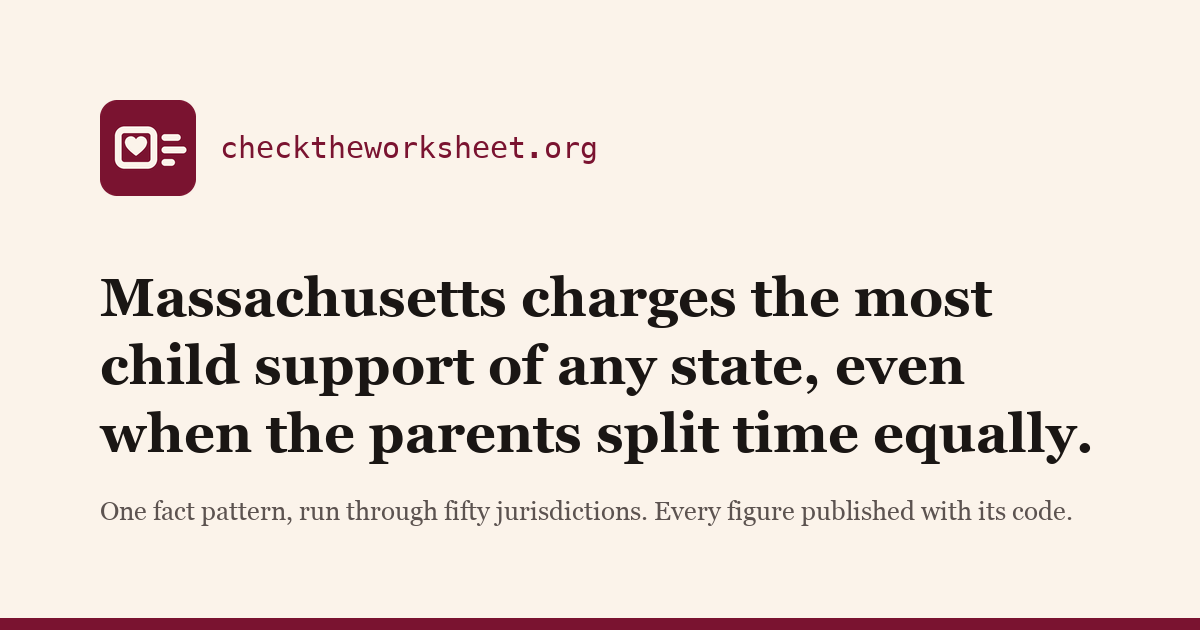
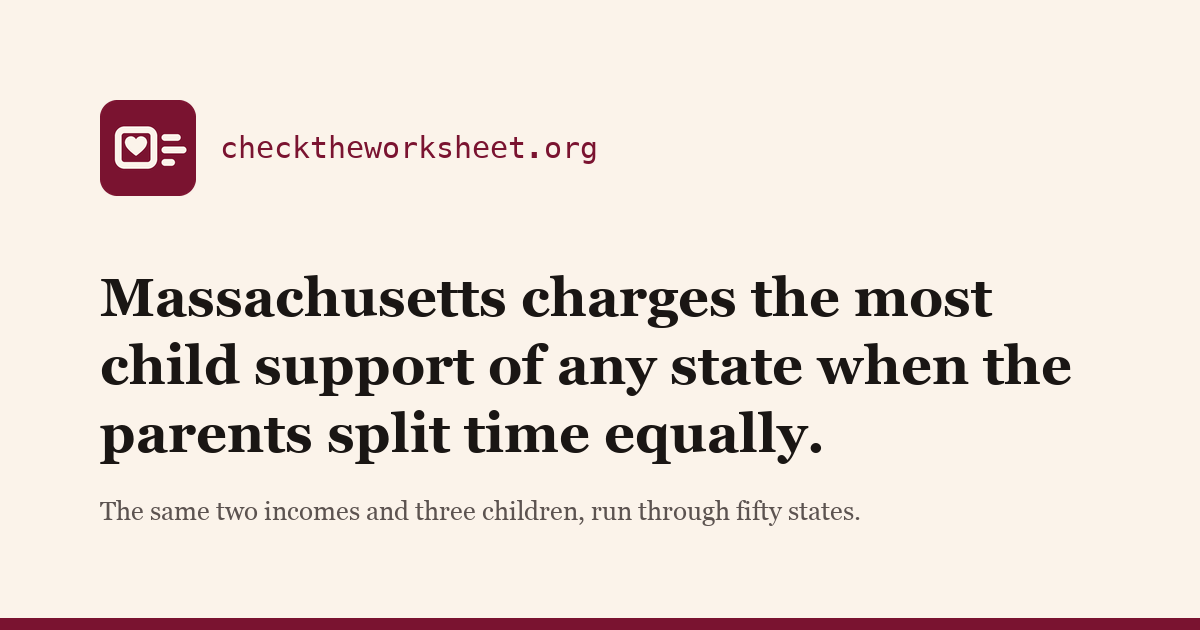
Headline said 'even when', which claimed something the data does not support
Chris caught it. 'Massachusetts charges the most child support of any state,
even when the parents split time equally' asserts by implicature that it charges
the most generally AND also at equal time. Measured from tier-50-2026-09-05.json:
at equal time Massachusetts is 1st of 50 ($4,388.48); at primary custody it is
2nd, behind Hawaii at $5,821. The first half was false.

'when', not 'even when'. Fixed in the h1, the og:image:alt and the social card.

Also his: 'One fact pattern' reads machine-written. Replaced in the reader-facing
prose - the lede, the three confidence tags, the card foot line - with 'the same
two incomes and three children'. Still present in exhibit notes, where it is a
terse method tag; a separate pass.

Verified: figure gate 272 checks 0 mismatches, wording gate clean, zero 'even
when' left outside _site, card read back.

Changed region(s): [[0.0617, 0.5429, 0.925, 0.754], [0.0617, 0.7841, 0.8942, 0.8444]]

diff --git a/index.html b/index.html
@@ -24,15 +24,16 @@ scripts:
   <div class="hero-grid">
     <div class="hero-text">
       <p class="eyebrow">Massachusetts Child Support Guidelines Worksheet, verified in code</p>
-      <h1>Massachusetts charges the most child support of any state, even when the parents split time equally.</h1>
+      <h1>Massachusetts charges the most child support of any state when the parents split time equally.</h1>
       <p class="lede"><strong>Equal parenting time here costs more than primary custody does in 47 states.</strong>
-      One fact pattern (three children, $201,000 and $29,640 a year, no child care), profiled from
-      each state's own guidelines, computed twice, and checked by an adversarial review.</p>
+      The same two incomes and three children in every state ($201,000 and $29,640 a year, no
+      child care), read out of each state's own guidelines, computed twice, and checked by an
+      adversarial review.</p>
       <div class="stat-callout">
         <span class="stat-value">Highest of 50 states</span>
         <span class="stat-label">child support order at equal parenting time</span>
       </div>
-      <p class="confidence-tag">One fact pattern, run through every state. See the method.</p>
+      <p class="confidence-tag">The same two incomes and three children, in every state. See the method.</p>
     </div>
     <div class="hero-visual">
       {% include figure.html
@@ -303,7 +304,7 @@ scripts:
            notes="The same fact pattern with the children primarily with the lower earner. Hawaii's design is shared with Delaware and Montana; at this income gap it exhausts the self-support reserve differently from an income-shares schedule. Same states, same axis range, same colors, same ordering rule as E17, so the two can be read as a pair."
            source_script="model/charts/fig5_states.py"
            csv_href="/figures/working/fig5_states.csv"
-           confidence="One fact pattern, run through every state. See the method."
+           confidence="The same two incomes and three children, in every state. See the method."
            lazy="false" %}
         {% include figure.html
            id="e17"
@@ -314,7 +315,7 @@ scripts:
            notes="Only Hawaii and Wisconsin order more at primary custody than Massachusetts does at equal time; Massachusetts's own primary-custody order, $4,714, is marked for scale and is not part of the ranked comparison."
            source_script="model/charts/fig10_ma_shared_vs_primary.py"
            csv_href="/figures/working/fig10_ma_shared_vs_primary.csv"
-           confidence="One fact pattern, run through every state. See the method." %}
+           confidence="The same two incomes and three children, in every state. See the method." %}
       </div>
     </section>
   </div>
@@ -354,7 +355,7 @@ scripts:
       </a>
     </div>
     <div class="body">
-      <p class="tag">Tiered: one fact pattern, see method <span class="interactive-badge">&rarr; sortable table</span></p>
+      <p class="tag">Tiered: the same two incomes and three children, see method <span class="interactive-badge">&rarr; sortable table</span></p>
       <h3><a href="/findings/fifty-one-jurisdictions/">Equal parenting time here costs more than primary custody in 47 states</a></h3>
       <p>Fifty ranked jurisdictions, profiled and computed twice, then checked adversarially.</p>
       <div class="stat">

diff --git a/_layouts/default.html b/_layouts/default.html
@@ -45,7 +45,7 @@
   <meta property="og:image" content="{{ '/assets/social-card.png' | absolute_url }}">
   <meta property="og:image:width" content="1200">
   <meta property="og:image:height" content="630">
-  <meta property="og:image:alt" content="checktheworksheet.org: Massachusetts charges the most child support of any state, even when the parents split time equally.">
+  <meta property="og:image:alt" content="checktheworksheet.org: Massachusetts charges the most child support of any state when the parents split time equally.">
   <meta name="twitter:card" content="summary_large_image">
   <meta name="twitter:title" content="{{ og_title }}">
   <meta name="twitter:description" content="{{ og_desc | strip_newlines | strip }}">

diff --git a/tools/make_social_card.py b/tools/make_social_card.py
@@ -33,11 +33,11 @@ MARK_PX = 96
 
 # The site's own <h1>, verbatim. Not a slogan invented for the card.
 HEADLINE = (
-    "Massachusetts charges the most child support of any state, "
-    "even when the parents split time equally."
+    "Massachusetts charges the most child support of any state "
+    "when the parents split time equally."
 )
 WORDMARK = "checktheworksheet.org"
-FOOTLINE = "One fact pattern, run through fifty jurisdictions. Every figure published with its code."
+FOOTLINE = "The same two incomes and three children, run through fifty states."
 
 # Georgia stands in for Charter, the site's first-choice serif, which is not a
 # system font. Same genre: a transitional serif with a large x-height.
